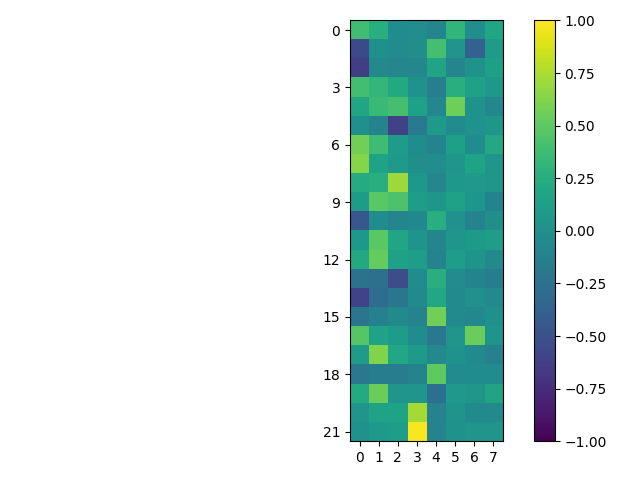
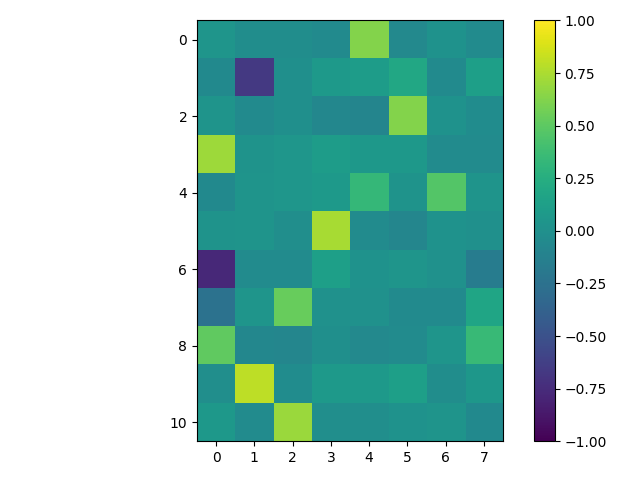
Fixes problems with Steps 1-6 of EFA

Changed region(s): [[0.25, 0.0312, 0.8125, 0.9688], [0.75, 0.2812, 0.8125, 0.3438]]

diff --git a/SAGE.py b/SAGE.py
@@ -501,8 +501,11 @@ def EFA_alternate(df_norm):
     min_communalities = 0.3
     min_loadings = 0.4
 
-    for n in range(2,10):
+    fit_stats_x = []
+    fit_stats_y = []
+    for n in range(2,3):
         print('Number of factors:', n)
+        fit_stats_x.append(n)
         # Create a copy of the data so that we don't remove data when dropping columns
         dfn = df_SAGE.copy()
         dropped = []
@@ -518,10 +521,10 @@ def EFA_alternate(df_norm):
                 while kmo_test:
                     kmo_all, kmo_model = calculate_kmo(dfn)
 
-                    if abs(kmo_all.min()) < min_kmo:
-                        print('Lowest KMO:', kmo_all.min())
-                        dropped.append(dfn.columns[kmo_all.argmin()])
-                        dfn.drop(dfn.columns[kmo_all.argmin()], axis=1, inplace=True)
+                    if abs(kmo_all).min() < min_kmo:
+                        print('Lowest KMO:', abs(kmo_all).min())
+                        dropped.append(dfn.columns[abs(kmo_all).argmin()])
+                        dfn.drop(dfn.columns[abs(kmo_all).argmin()], axis=1, inplace=True)
                     else:
                         kmo_test = False
                 # print('KMO Measure of Sampling Adequacy: ', kmo_model)
@@ -541,25 +544,27 @@ def EFA_alternate(df_norm):
                 # 4. Communalities
                 communs = efa.get_communalities()
 
-                if abs(communs.min()) < min_communalities:
-                    print('Lowest communality:', communs.min())
-                    dropped.append(dfn.columns[communs.argmin()])
-                    dfn.drop(dfn.columns[communs.argmin()], axis=1, inplace=True)
+                if abs(communs).min() < min_communalities:
+                    print('Lowest communality:', abs(communs).min())
+                    dropped.append(dfn.columns[abs(communs).argmin()])
+                    dfn.drop(dfn.columns[abs(communs).argmin()], axis=1, inplace=True)
                 else:
                     communs_test = False
             # print(communs)
 
-            # 5. Item loadings
-            if abs(efa.loadings_.min()) < min_loadings:
-                print('Lowest item loading:', efa.loadings_.min())
-                dropped.append(dfn.columns[efa.loadings_.argmin()])
-                dfn.drop(dfn.columns[efa.loadings_.argmin()], axis=1, inplace=True)
+            # 5. Item loading
+            drop_list = np.array([abs(i).max() for i in efa.loadings_])
+            if drop_list.min() < min_loadings:
+                print('Lowest item loading:', drop_list.min())
+                dropped.append(dfn.columns[drop_list.argmin()])
+                dfn.drop(dfn.columns[drop_list.argmin()], axis=1, inplace=True)
             else:
                 loadings_test = False
 
         print('Dropped columns:', dropped)
-        m = pd.DataFrame(efa.loadings_)
-        print(m)
+        df_loadings = pd.DataFrame(efa.loadings_)
+        # print(df_loadings)
+        # print(list(dfn))
 
         labels = list(dfn)
         file_string = image_dir + '/EFA_labels_n=' + str(n) + '.txt'
@@ -571,7 +576,7 @@ def EFA_alternate(df_norm):
             sys.stdout = original_stdout # Reset the standard output to its original value
 
         fig, ax = plt.subplots()
-        plt.imshow(m, cmap="viridis", vmin=-1, vmax=1)
+        plt.imshow(df_loadings, cmap="viridis", vmin=-1, vmax=1)
         plt.colorbar() 
         ax.yaxis.set_major_locator(matplotlib.ticker.MaxNLocator(integer=True))
         ax.xaxis.set_major_locator(matplotlib.ticker.MaxNLocator(integer=True))
@@ -580,7 +585,7 @@ def EFA_alternate(df_norm):
         save_fig(fig, file_string1)
         plt.clf()
 
-        truncm = m[abs(m)>=0.4]
+        truncm = df_loadings[abs(df_loadings)>=0.4]
         fig, ax = plt.subplots()
         plt.imshow(truncm, cmap="viridis", vmin=-1, vmax=1)
         plt.colorbar()
@@ -592,55 +597,46 @@ def EFA_alternate(df_norm):
         plt.clf()
 
         # # 6. Place loadings into model
-        # model_dict = {
-        # 'F1': ['When I work in a group I do higher quality work.', 'The material is easier to understand when I work with other students.',
-        #         'My group members help explain things that I do not understand.', 'I feel working in groups is a waste of time.', 'The work takes more time to complete when I work with other students.',
-        #         'The workload is usually less when I work with other students.'], 
-        # 'F2': ['My group members respect my opinions.', 'My group members make me feel that I am not as smart as they are.', 'My group members do not care about my feelings.',
-        #         'I feel I am part of what is going on in the group.', 'When I work in a group, I am able to share my ideas.'], 
-        # 'F3': ['Everyone’s ideas are needed if we are going to be successful.', 'We cannot complete the assignment unless everyone contributes.', 'I let the other students do most of the work.',
-        #         'I also learn when I teach the material to my group members.', 'I learn to work with students who are different from me.'], 
-        # 'F4': ['I become frustrated when my group members do not understand the material.', 'When I work with other students, we spend too much time talking about other things.',
-        #         'I have to work with students who are not as smart as I am.']
-        # }        
-        for i in range(1,n):
-            # Create list of factors (F1, F2, etc.)
-            # For each factor create an empty list to populate with items
-            # For each item, find the factor that it loaded into (>0.6)
-            # Check if the largest loading is >0.3 than the rest, if not then add multiple
-            # Add that item to the correct factor list
-            # Convert the lists into a dictionary
+        # For each factor create an empty list to populate with items
+        lists = [[] for _ in range(n)]
+        # Add the Factor name to the list of lists
+        numb = 1
+        for i in lists:
+            i.append('F'+str(numb))
+            numb += 1
+        # For each item, find the factor that it loaded into (>0.5)
+        # Check if the largest loading is >0.3 than the rest, if not then add multiple
+        # Add that item to the correct factor list
+        for index, row in df_loadings.iterrows():
+            if abs(row).max() > 0.4:
+                # print(abs(row).max())
+                # print(abs(row).argmax())
+                # print(dfn.columns[index])
+                lists[abs(row).argmax()].append(dfn.columns[index])
+        # Convert the lists into a dictionary
+        model_dict = {i[0]:i[1:] for i in lists}
 
-        # # 7. Fit model using CFA and extract fit statistic
-        # model_spec = ModelSpecificationParser.parse_model_specification_from_dict(df_SAGE,model_dict)
+        # 7. Fit model using CFA and extract fit statistic
 
-        # cfa = ConfirmatoryFactorAnalyzer(model_spec, disp=False)
-        # cfa.fit(df_SAGE)
+        ## IS THIS DOING WHAT I THINK IT'S DOING???
+        model_spec = ModelSpecificationParser.parse_model_specification_from_dict(df_SAGE,model_dict)
 
-        # df_cfa = pd.DataFrame(cfa.loadings_,index=model_spec.variable_names)
-        # df_cfa.round(decimals = 4).to_csv('ExportedFiles/SAGE_CFA.csv', encoding = "utf-8", index=True)
-        
-        # trunc_cfa = np.ma.masked_where(abs(df_cfa) < 0.0001, df_cfa)
-        # fig, ax = plt.subplots()
-        # plt.imshow(trunc_cfa, cmap="viridis", vmin=-1, vmax=1)
-        # ax.yaxis.set_major_locator(matplotlib.ticker.MaxNLocator(integer=True))
-        # ax.xaxis.set_major_locator(matplotlib.ticker.MaxNLocator(integer=True))
-        # plt.colorbar()
-        # plt.tight_layout()
-        # save_fig(fig, 'SAGE_CFA')
-        # plt.clf()
+        cfa = ConfirmatoryFactorAnalyzer(model_spec, disp=False)
+        cfa.fit(dfn)
+        print(cfa.aic_)
+        print(cfa.loadings_)
 
-        # trunc_cfa = np.ma.masked_where(abs(df_cfa) < 0.4, df_cfa)
-        # fig, ax = plt.subplots()
-        # plt.imshow(trunc_cfa, cmap="viridis", vmin=-1, vmax=1)
-        # plt.colorbar()
-        # ax.yaxis.set_major_locator(matplotlib.ticker.MaxNLocator(integer=True))
-        # ax.xaxis.set_major_locator(matplotlib.ticker.MaxNLocator(integer=True))
-        # plt.tight_layout()
-        # save_fig(fig, 'SAGE_CFA_0.4')
-        # plt.clf()
+        df_cfa = pd.DataFrame(cfa.loadings_,index=model_spec.variable_names)
+        fit_stats_y.append(cfa.aic_)
 
-    # 9. Plot fit statistic vs number of factors        
+    # 9. Plot fit statistic vs number of factors
+    print(fit_stats_x, fit_stats_y)
+    fig, ax = plt.subplots()
+    plt.plot(fit_stats_x, fit_stats_y, marker='.', ls='None')
+    ax.tick_params(axis='both', direction='in', top=True, right=True)
+    plt.tight_layout()
+    save_fig(fig, 'fit_stats')
+    plt.clf()
 
 def PCA(df_norm):
     # REMOVE DEMOGRAPHIC QUESTIONS
